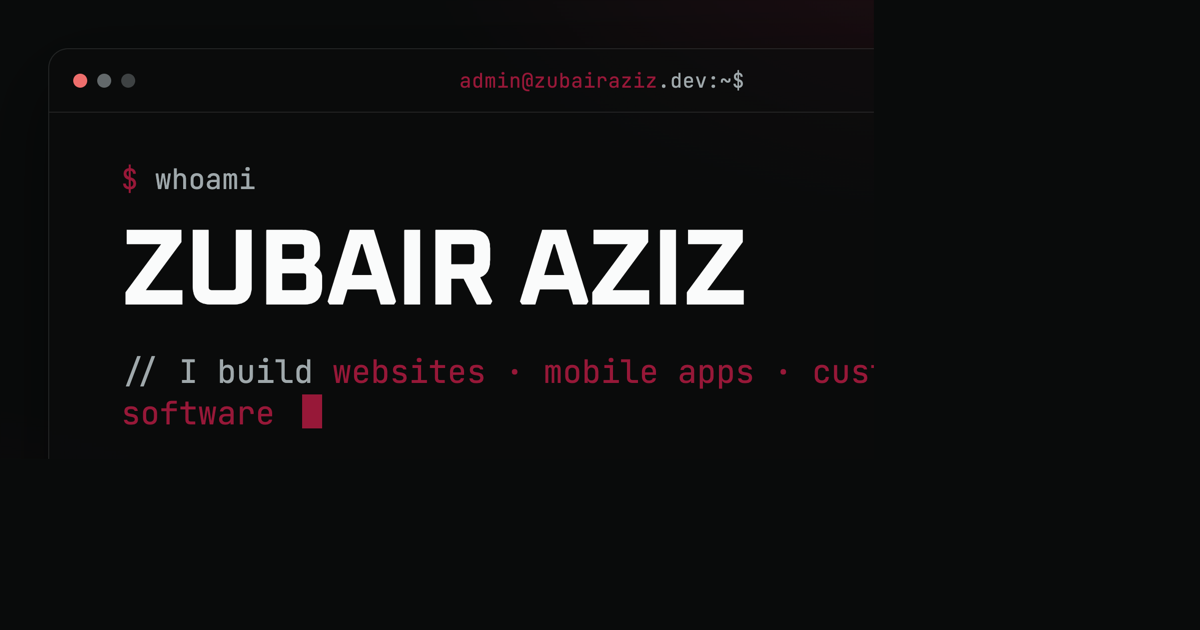
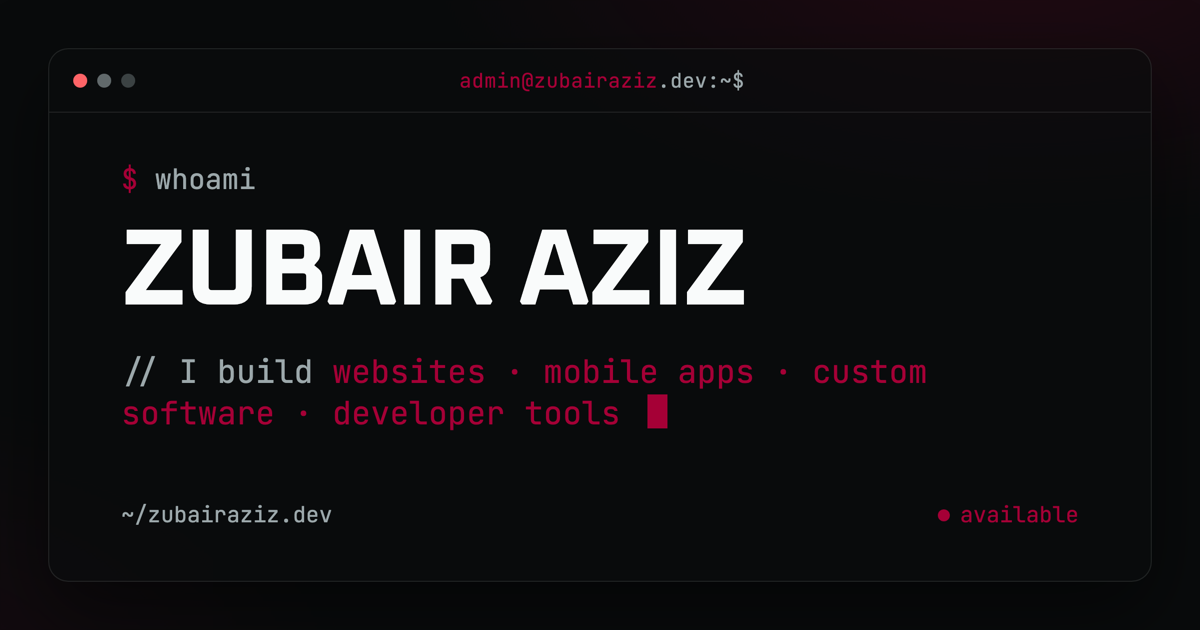
Update copy

diff --git a/src/routes/index.tsx b/src/routes/index.tsx
@@ -14,7 +14,9 @@ export const Route = createFileRoute('/')({
 		meta: [
 			...seo({
 				title: `${me.name} — ${me.host}`,
-				description: `${me.role}. ${me.tagline.prefix} ${me.tagline.words.join(', ')}.`,
+				description: `${me.name} — ${me.role} building ${me.tagline.words
+					.slice(0, -1)
+					.join(', ')}, and ${me.tagline.words[me.tagline.words.length - 1]}.`,
 				image: `https://${me.host}/opengraph-image.png`,
 				url: `https://${me.host}/`,
 			}),
@@ -44,9 +46,9 @@ function Home() {
 				</div>
 			</section>
 
-			{/* $ what i'm working on */}
+			{/* $ working on */}
 			<section className="flex flex-col gap-3">
-				<Prompt>what i'm working on</Prompt>
+				<Prompt>working on</Prompt>
 				<ul className="flex flex-wrap gap-x-5 gap-y-2 border-l border-border pl-4 sm:pl-6">
 					{me.now.map((item) => (
 						<li key={item.label}>

diff --git a/src/routes/__root.tsx b/src/routes/__root.tsx
@@ -49,7 +49,7 @@ export const Route = createRootRoute({
 			{ name: 'theme-color', content: '#090b0c' },
 			...seo({
 				title: 'Zubair Aziz — zubairaziz.dev',
-				description: 'The personal site of Zubair Aziz.',
+				description: `The personal site of ${me.name}, ${me.role}.`,
 				image: 'https://zubairaziz.dev/opengraph-image.png',
 				url: 'https://zubairaziz.dev/',
 			}),

diff --git a/src/lib/me.ts b/src/lib/me.ts
@@ -15,7 +15,6 @@ export const me = {
 		{ label: 'tabtally', href: 'https://www.tabtally.io/' },
 	],
 	links: [
-		// Replace these hrefs with your real profiles.
 		{ label: 'github', href: 'https://github.com/zubairaziz' },
 		{ label: 'x', href: 'https://x.com/zubairaziz_13' },
 		{ label: 'linkedin', href: 'https://www.linkedin.com/in/zubairaziz13' },

diff --git a/src/lib/seo.ts b/src/lib/seo.ts
@@ -34,7 +34,7 @@ export function seo({
 					{ property: 'og:image', content: image },
 					{ property: 'og:image:width', content: '1200' },
 					{ property: 'og:image:height', content: '630' },
-					{ property: 'og:image:alt', content: title },
+					{ property: 'og:image:alt', content: description ?? title },
 				]
 			: []),
 	]

diff --git a/README.md b/README.md
@@ -1,120 +1,70 @@
-# zubairaziz.dev — TanStack Start
+# zubairaziz.dev
 
-A full-stack [TanStack Start](https://tanstack.com/start) application built around
-explicit server boundaries. It demonstrates the core TanStack Start patterns:
+The personal site of **Zubair Aziz** — a dark, mono, terminal-shaped one-pager.
 
-- **File-based TanStack Router routes** — `src/routes/` maps 1:1 to URLs
-- **Validated search params** — Zod (`@tanstack/zod-adapter`) with `validateSearch`
-- **Route loaders** — run on the server for the initial request, on the client for navigation
-- **Typed server functions** — `createServerFn` RPCs, safe to import anywhere
-- **Full-document SSR** — `shellComponent` owns `<html>/<head>/<body>`, `head()` manages SEO
-- **Streaming** — deferred loader data + typed async-generator server-function streams
-- **Selective SSR per route** — `ssr: true` | `'data-only'` | `false`
-- **Runtime-agnostic deployment** — Nitro preset chosen at build time, app code unchanged
+Built with **TanStack Start** (Vite + Nitro), **React 19**, **Tailwind CSS v4**,
+and **shadcn/ui** v4.
 
 ---
 
 ## Quick start
 
 ```bash
-npm install
-npm run dev        # http://localhost:3000
+pnpm install
+pnpm dev          # http://localhost:3000
 ```
 
 Production build & run (Node via Nitro `node-server` preset):
 
 ```bash
-npm run build      # vite build + tsc --noEmit → .output/
-npm run start      # node .output/server/index.mjs
+pnpm build        # vite build + tsc --noEmit → .output/
+pnpm start        # node .output/server/index.mjs
 ```
 
 ---
 
-## Routes & SSR modes
+## What's here
 
-| Route | `ssr` mode | What it demonstrates |
-| --- | --- | --- |
-| `/` | `true` (default) | Validated search params (`?tab=`), route loader calling typed server functions |
-| `/posts` | `true` | Full search-params demo (`page`, `perPage`, `q`, `sort`) driving the loader |
-| `/posts/$postId` | `true` | Typed path params, `notFound()` from loader, per-route SEO via `head({ loaderData })` |
-| `/stream` | `true` + streaming | Deferred loader data (SSR streaming) + typed async-generator server-function stream |
-| `/dashboard` | `'data-only'` | `beforeLoad`/`loader` on server, component rendered on client, `pendingComponent` fallback |
-| `/client-only` | `false` | Browser-only APIs (`localStorage`, `window`); no server rendering at all |
-| `/about` | `true` | Zod-validated `POST` server function (contact form) |
-| `/$` | — | Catch-all → shared 404 |
+A single-page terminal — every section is a shell command and its output.
 
-> Selective SSR inheritance: a child route can only become *more* restrictive than
-> its parent (`true` → `'data-only'` → `false`).
-
----
-
-## Server boundaries
-
-Server-only work is kept behind explicit boundaries so it never leaks into the
-client bundle:
-
-| File | Role |
+| Route | What it is |
 | --- | --- |
-| `src/server/*.server.ts` | Server-only modules (data store, process stats). Never imported by client code. |
-| `src/functions/*.functions.ts` | `createServerFn` wrappers — safe to import from components/loaders; handlers stay on the server. |
-| `src/start.ts` | Global server request middleware (`createStart`). Server-only; stripped from the client bundle. |
-| `src/server.ts` | Universal `{ fetch }` streaming entry (`createStartHandler` + `defaultStreamHandler`). |
-| `src/client.tsx` | Client hydration entry (`StartClient`). |
-| `src/router.tsx` | Router factory shared by server and client. |
-| `src/lib/schemas.ts` | Shared, client-safe Zod schemas used by both search validation and server-function validators. |
+| `/` | The terminal one-pager — `$ whoami`, `$ working on`, `$ cat ~/links` |
+| `/$` | Catch-all → shared 404 |
 
-`src/start.ts` defines the global request middleware explicitly (defining it opts
-out of defaults), so it re-adds `createCsrfMiddleware` for server functions and
-adds a request logger.
+Copy lives in **`src/lib/me.ts`** — the single source of truth for the name,
+tagline, "now" items, and links. Edit that file to change what the site says.
 
 ---
 
-## Streaming
+## Structure
 
-1. **Deferred loader data** — a loader returns a `Promise`; the HTML shell streams
-   immediately and the resolved section is flushed via `<Suspense>` + `<Await>`.
-2. **Typed server-function streams** — a handler written as an `async function*`
-   yields typed chunks that arrive progressively on the client.
-
-```ts
-// src/functions/stream.functions.ts
-export const streamBuildLog = createServerFn().handler(async function* () {
-  for (const [index, content] of MESSAGES.entries()) {
-    await new Promise((r) => setTimeout(r, 350))
-    yield { id: index + 1, content, at: new Date().toISOString() }
-  }
-})
 ```
-
----
-
-## Deployment targets
-
-The application model is runtime-agnostic. The deployment **target** is decided
-at build time via the Nitro preset in `vite.config.ts`:
-
-```ts
-nitro({ preset: process.env.NITRO_PRESET || 'node-server' })
+src/
+  client.tsx        # hydration entry (StartClient)
+  server.ts         # universal { fetch } streaming entry
+  start.ts          # global server request middleware
+  router.tsx        # router factory (shared server/client)
+  routes/
+    __root.tsx      # <html>/<head>/<body> shell + SEO + layout header
+    index.tsx       # "/" — the terminal one-pager
+    $.tsx           # catch-all → shared 404
+  lib/
+    me.ts           # single source of truth for home copy/links
+    seo.ts          # seo() helper → typed <meta> tags
+    utils.ts        # re-exports cn from 'cn'
+  components/
+    TypedText.tsx   # typewriter (type/delete state machine, SSR-safe)
+    NotFound.tsx / DefaultCatchBoundary.tsx
+    ui/             # shadcn components (button.tsx, badge.tsx)
+  styles/app.css    # Tailwind + shadcn theme tokens (light + .dark sets)
+public/
+  favicon.svg  opengraph-image.png  apple-touch-icon.png
+  site.webmanifest  robots.txt  sitemap.xml
+scripts/
+  generate-og.mjs        # regenerates the OG card (oklch→hex + base64 fonts)
+  apple-touch-icon.svg   # source for the 180×180 icon
 ```
-
-Swap the preset without touching any app code:
-
-```bash
-# Node.js server (default) → npm run start
-NITRO_PRESET=node-server npm run build
-
-# Bun / Vercel / Netlify / Cloudflare
-NITRO_PRESET=bun          npm run build
-NITRO_PRESET=vercel       npm run build
-NITRO_PRESET=netlify      npm run build
-NITRO_PRESET=cloudflare-pages npm run build
-```
-
-- **Node/Vercel/Railway/Appwrite** — use Nitro presets; run the produced server output
-- **Netlify** — `@netlify/vite-plugin-tanstack-start` instead of the Nitro plugin
-- **Cloudflare Workers** — `@cloudflare/vite-plugin` (`viteEnvironment: 'ssr'`)
-
-See the [TanStack Start hosting guide](https://tanstack.com/start/latest/docs/framework/react/guide/hosting) for provider-specific steps.
 
 ---
 
@@ -122,18 +72,40 @@ See the [TanStack Start hosting guide](https://tanstack.com/start/latest/docs/fr
 
 | Script | Description |
 | --- | --- |
-| `npm run dev` | Dev server with HMR and route-tree generation |
-| `npm run build` | `vite build` + `tsc --noEmit` → `.output/` |
-| `npm run start` | Run the production Nitro server (`node .output/server/index.mjs`) |
-| `npm run preview` | Preview the build |
-| `npm run typecheck` | `tsc --noEmit` |
+| `pnpm dev` | Dev server with HMR and route-tree generation |
+| `pnpm build` | `vite build` + `tsc --noEmit` → `.output/` |
+| `pnpm start` | Run the production Nitro server (`node .output/server/index.mjs`) |
+| `pnpm lint` | `biome check --write . --unsafe` — auto-fixes and rewrites files |
+| `pnpm typecheck` | `tsc --noEmit` |
 
 ---
 
 ## Stack
 
 - **TanStack Start** `^1.168` / **TanStack Router** `^1.170`
-- **React 19**, **Vite 8**, **TypeScript 5.9**
+- **React 19**, **Vite 8**, **TypeScript 7**
 - **Tailwind CSS v4** (via `@tailwindcss/vite`)
+- **shadcn/ui** v4 (style `base-lyra`, baseColor `mist`)
 - **Nitro** `^3` for the production server build
-- **Zod** + **@tanstack/zod-adapter** for validation
+- **Biome** for lint + format
+
+---
+
+## Deployment
+
+The app is runtime-agnostic; the deployment target is the Nitro preset, chosen
+at build time in `vite.config.ts`:
+
+```ts
+nitro({ preset: process.env.NITRO_PRESET || 'node-server' })
+```
+
+```bash
+NITRO_PRESET=node-server pnpm build   # default
+NITRO_PRESET=vercel       pnpm build
+NITRO_PRESET=netlify      pnpm build
+NITRO_PRESET=cloudflare-pages pnpm build
+```
+
+See [AGENTS.md](./AGENTS.md) for project conventions, hard rules, and the
+available agent skills.

diff --git a/AGENTS.md b/AGENTS.md
@@ -1,0 +1,118 @@
+# AGENTS.md — zubairaziz.dev
+
+Personal site of **Zubair Aziz**, styled as a dark, mono, terminal-shaped one-pager.
+Built with **TanStack Start** (Vite + Nitro), React 19, Tailwind v4, and shadcn v4.
+
+---
+
+## Commands
+
+| Command | What it does |
+| --- | --- |
+| `pnpm dev` | Vite dev server on `http://localhost:3000` (auto-bumps to 3001 if busy) |
+| `pnpm build` | `vite build && tsc --noEmit` → emits to `.output/` |
+| `pnpm start` | `node .output/server/index.mjs` (production preview) |
+| `pnpm lint` | `biome check --write . --unsafe` — **auto-fixes and rewrites files** |
+| `pnpm typecheck` | `tsc --noEmit` |
+
+Always run `pnpm typecheck` after edits; it is the source of truth for correctness.
+
+---
+
+## Stack & versions
+
+- TanStack Start ^1.168 + Router ^1.170, React 19.3, Vite 8, TypeScript 7, Nitro ^3 beta
+- Tailwind v4 via `@tailwindcss/vite` (see gotcha below), pnpm 11 (`.nvmrc` pins Node 24)
+- shadcn v4 (style `base-lyra`, baseColor `mist`, base-ui primitives, `lucide-react` icons)
+- Biome for lint + format; path alias `~/*` → `src/*`
+
+## File map
+
+```
+src/
+  client.tsx        # hydration entry (StartClient)
+  server.ts         # universal { fetch } streaming entry
+  start.ts          # global server request middleware
+  router.tsx        # router factory (shared server/client)
+  routes/
+    __root.tsx      # <html>/<head>/<body> shell + SEO + layout header
+    index.tsx       # "/" — the terminal one-pager (all home sections)
+    $.tsx           # catch-all → shared 404
+  lib/
+    me.ts           # SINGLE SOURCE OF TRUTH for home copy/links (hand-edited)
+    seo.ts          # seo() helper → typed <meta> tags
+    utils.ts        # re-exports cn from 'cn'
+  components/
+    TypedText.tsx   # typewriter (type/delete state machine, SSR-safe)
+    NotFound.tsx / DefaultCatchBoundary.tsx
+    ui/             # shadcn components (button.tsx, badge.tsx)
+  styles/app.css    # Tailwind + shadcn theme tokens (light + .dark sets)
+public/
+  favicon.svg  opengraph-image.png  apple-touch-icon.png
+  site.webmanifest  robots.txt  sitemap.xml
+scripts/
+  generate-og.mjs        # regenerates OG card (oklch→hex + base64 fonts)
+  apple-touch-icon.svg   # source for the 180×180 icon
+```
+
+---
+
+## Hard rules (do not break)
+
+1. **Theme tokens only.** Never use raw Tailwind color classes (`slate-…`, `rose-…`,
+   `white`, etc.). Use `bg-background`, `text-foreground`, `text-muted-foreground`,
+   `text-primary`, `border-border`. `<html>` carries `className="dark"` in
+   `__root.tsx`, so the `.dark` token set drives the look.
+2. **The accent is rose — deep crimson `#a50036`** (`oklch(0.455 0.188 13.697)`).
+   This is intentional, NOT orange. Don't "fix" it.
+3. **Copy lives in `src/lib/me.ts`.** Nothing else hardcodes text. Update `me.ts`
+   to change what the site says. (The `email` link is a known placeholder — leave it.)
+4. **Tailwind via `@tailwindcss/vite` in `vite.config.ts` — NOT PostCSS.** The
+   PostCSS route breaks the SSR build (Vite 8's internal `postcss-import` runs
+   first and ENOENTs on `@import "tailwindcss"`).
+5. **JSON-LD** — use TanStack Router's native meta key, never `dangerouslySetInnerHTML`:
+   `{ 'script:ld+json': <plain object> }` inside `head().meta`. It auto-stringifies
+   and escapes (Biome flags the raw approach).
+6. **OG meta tags use `property`** (not `name`) — the `seo()` helper already does this.
+7. **Keep the Vite `optimizeDeps.include` for `use-sync-external-store/shim/with-selector`.**
+   Removing it breaks hydration (typewriter freezes) in dev. If you change it, clear
+   `node_modules/.vite` and restart.
+
+## Deployment notes
+
+- Runtime-agnostic app; target = Nitro preset at build time
+  (`NITRO_PRESET` env var, default `node-server`).
+- Static assets in `public/` are served as-is (favicon, OG image, manifest,
+  robots.txt, sitemap.xml). Regenerate the OG card with `node scripts/generate-og.mjs`
+  and the icon with `rsvg-convert -w 180 -h 180 scripts/apple-touch-icon.svg -o public/apple-touch-icon.png`.
+
+## Code style (Biome)
+
+- Tabs, single quotes, no semicolons, organize imports on.
+- `pnpm lint` writes files — run `pnpm typecheck` afterward.
+- `src/routeTree.gen.ts` and `public/` are lint-ignored; never hand-edit the route tree.
+
+---
+
+## Project skills (`.agents/skills/`)
+
+Reference these when the matching task comes up:
+
+| Skill | Use when |
+| --- | --- |
+| `frontend-design` | Designing or reshaping UI; aesthetic direction, typography, avoiding templated looks. |
+| `shadcn` | Adding/fixing shadcn/ui components, styling, composing UI. Run CLI via `pnpm dlx shadcn@latest`. |
+| `copywriting` | Writing/improving marketing copy for any page. |
+| `web-design-guidelines` | "Review my UI", accessibility audit, UX/design review. |
+| `agent-browser` | Browser automation: navigate, screenshot, test, or QA the site. |
+| `find-skills` | User wants to discover/install a new capability or skill. |
+| `grill-me` | User invokes it explicitly to sharpen a plan/design ("grill me"). |
+
+> `grill-me` is user-invoked only (`disable-model-invocation`); `shadcn` is
+> non-user-invocable but applies automatically for shadcn work.
+
+---
+
+## Known issues / TODOs
+
+- `me.ts` email link is a placeholder (`mailto:zubairaziz.dev@gmail.com`) — intentional for now.
